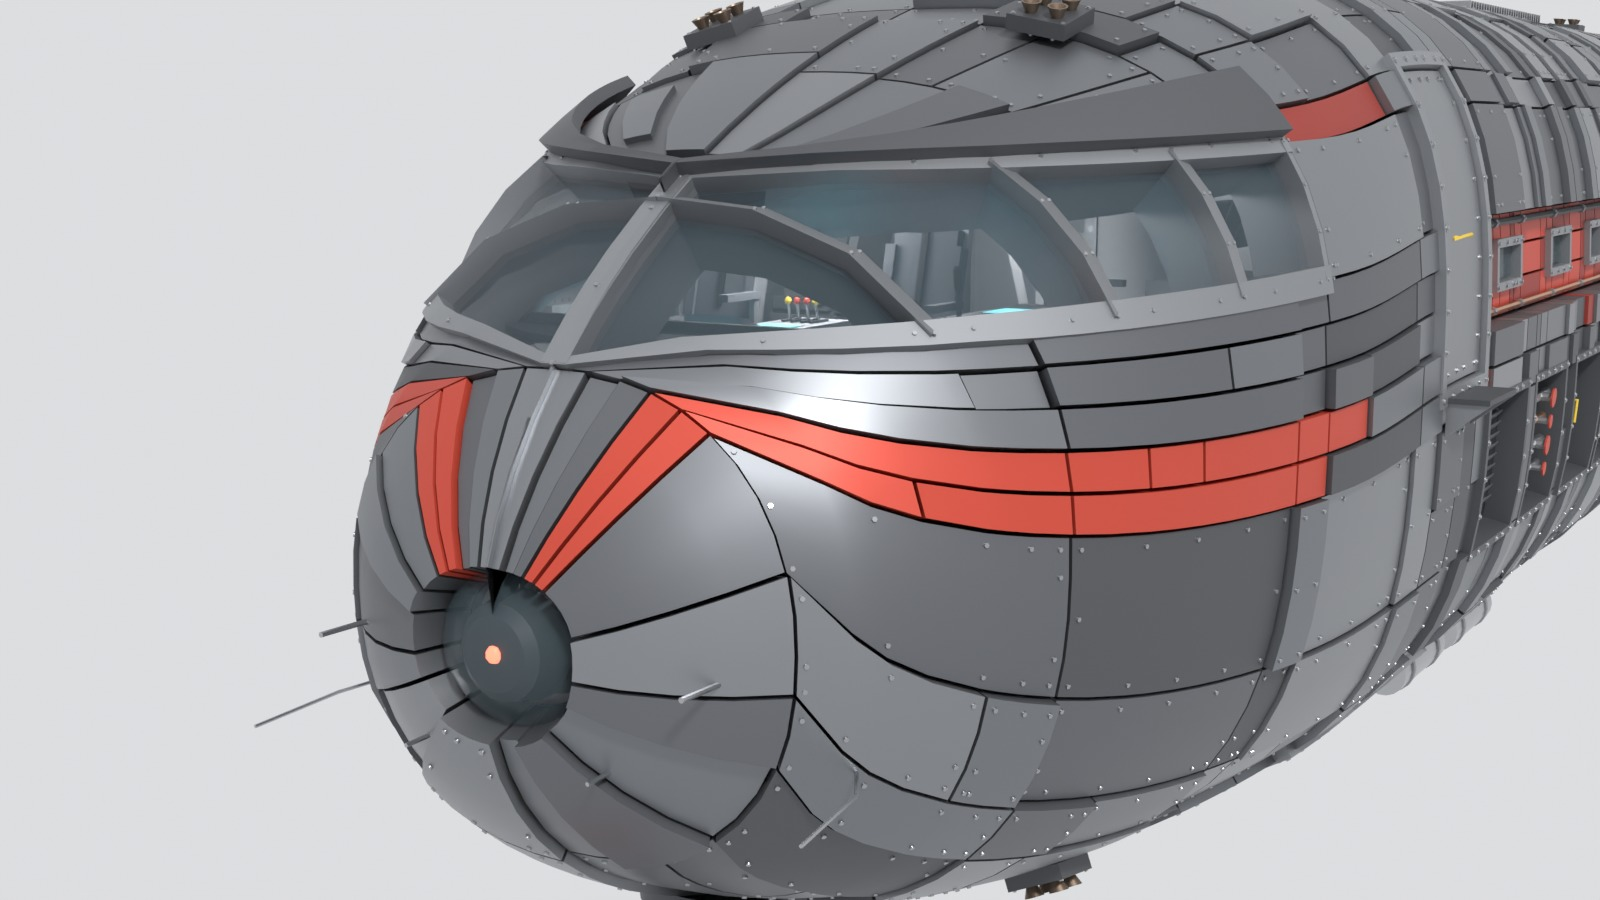
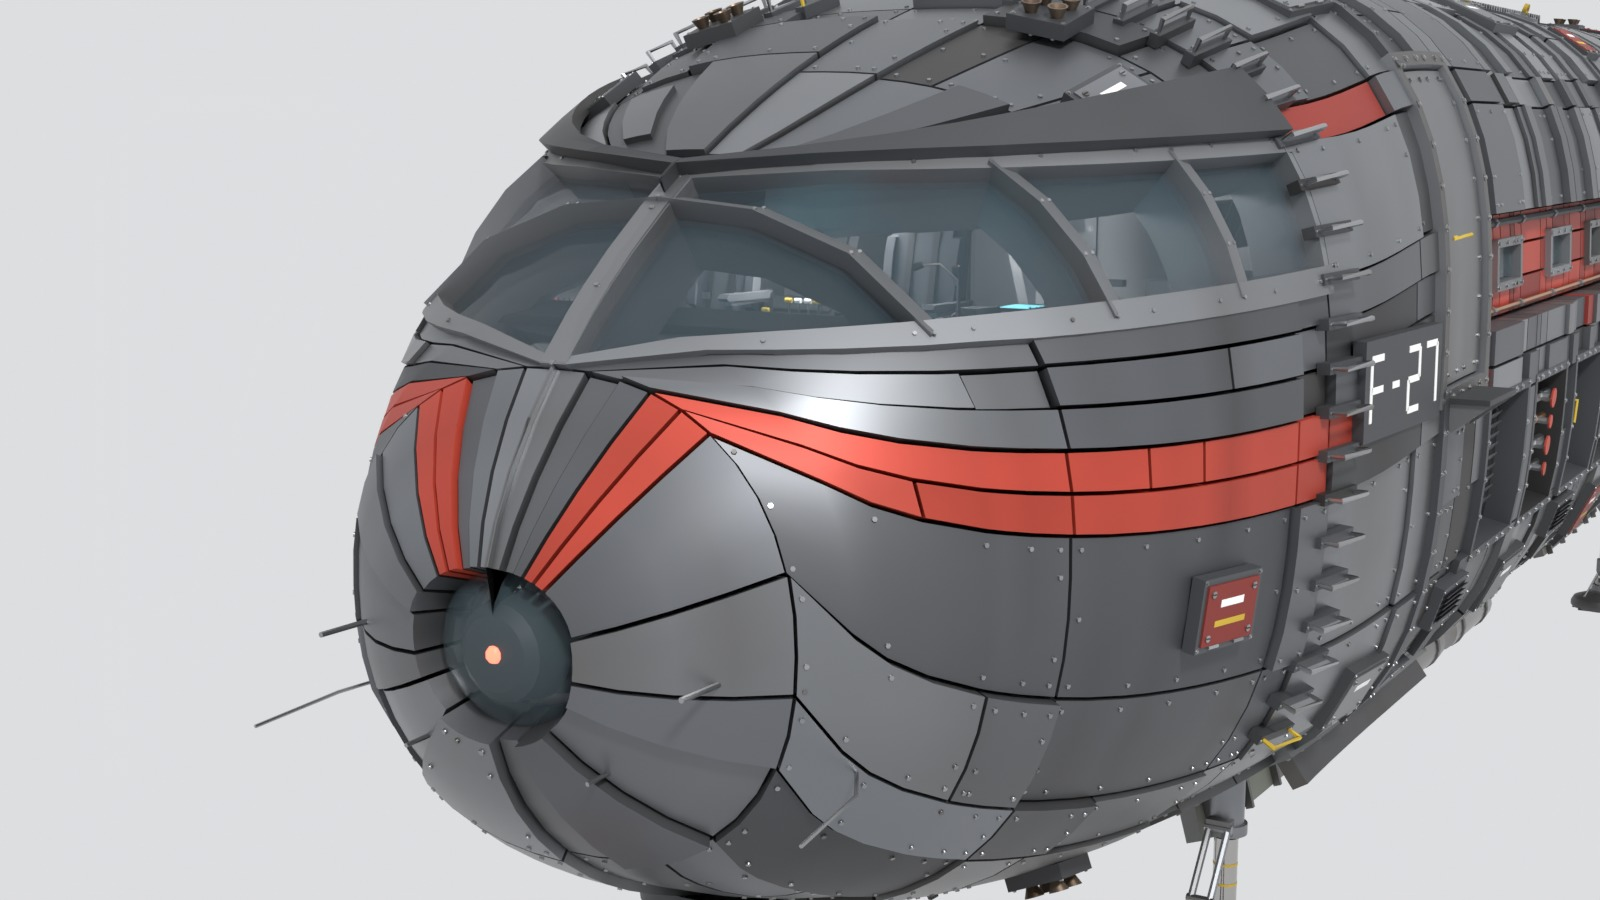
Wayfarer: renders, docs and counts for the hull detail and wear layer
Claude-Session: https://claude.ai/code/session_01UuyFwUzXmHQvLrtw5ioQUe

diff --git a/assets/wayfarer/USAGE.md b/assets/wayfarer/USAGE.md
@@ -12,15 +12,15 @@ to places inside, hide modules, slide a cutaway through the hull and run every m
 ## Status
 
 This is the **structure stage**: the whole ship exists at true size with real walls, decks, doors and mechanisms, in
-its detail pass. Every section has now had one: cockpit, engine section, landing gear, lift chassis, lander bay and the crew spaces. The outer hull and its gadgets are still first pass. It is not finished art.
+its detail pass. Every section has now had one: cockpit, engine section, landing gear, lift chassis, lander bay and the crew spaces. The outer hull has had one too, and a first wear layer is on. It is not finished art.
 
 | Part | State |
 |---|---|
-| Geometry (`model/`) | A recipe in Blender Python. 157 named objects in eight modules, 1,514 armour plates, 492,000 triangles of which 189,000 are fasteners. It writes `out/wayfarer.glb`, a build output that is never committed. |
+| Geometry (`model/`) | A recipe in Blender Python. 158 named objects in eight modules, 1,514 armour plates, 525,000 triangles of which 208,000 are fasteners. It writes `out/wayfarer.glb`, a build output that is never committed. |
 | Mechanisms | 11 keyed clips: landing gear, lift chassis with its ramp, lander bay doors and cradle, crew hatch, seven sliding doors. Kinematic only: the linkages are solved by geometry, not by forces. |
 | Sockets | 14 named points for the game: eyes, thresholds, muzzles, exhausts, ground. |
 | Checks (`model/tools/checks.py`) | 30 checks pass: the envelope, standing headroom on both decks, door and hatch sizes, the lift and lander fitting their openings, clip lengths. |
-| Materials | Flat colours by role (30 named materials). No textures, wear or decals yet. |
+| Materials | Flat colours by role (30 named materials), times a wear layer: one colour attribute per mesh (`wear`, glTF `COLOR_0`) computed by rule in `model/wear.py` from where each vertex is: tone variation, plate-to-plate tint, belly grime, streaks, soot towards the nozzles, scuffing above the decks. Build with `--no-wear` to leave it off. No textures: scratches, chipped paint and fine streaks are not there, because a plate only has vertices at its corners. Markings are geometry (the hull number, placards). |
 | Lander | A stub of the right size (5.6 x 2.2 x 1.7 m) hanging in the cradle. A real lander is a later asset. |
 | Simulation | **None yet.** No mass, thrust, flight, gear loads or sound. This is the main gap against the repository's simulation-grade rule and is the next layer after detail. |
 | Collision | Not made yet. The decks, bulkheads and lining are separate named objects, so a collision set can be cut from the recipe. |
@@ -33,7 +33,7 @@ Needs a Python that `bpy` (Blender as a module) installs on, and `numpy`. Built 
 pip install bpy numpy
 cd assets/wayfarer/model
 python3 build.py --glb             # work/wayfarer.blend, out/wayfarer.glb (16 MB, every bolt)
-python3 build.py --glb --lod 1 --tag wayfarer_lod1   # out/wayfarer_lod1.glb (9 MB, no fasteners)
+python3 build.py --glb --lod 1 --tag wayfarer_lod1   # out/wayfarer_lod1.glb (14 MB, no fasteners)
 python3 build.py --only engines    # one module, for working on it
 python3 tools/checks.py            # sizes, clearances and clips
 python3 blockout.py                # the stage-3 blockout
@@ -79,7 +79,7 @@ Each module is one file in `model/modules/` and one node under the root `wayfare
 | `landing_gear` | Four legs, each `gear_<pos>_leg` > `_piston` > `_pad`, with torque links, a landing light, an uplock roller, an actuator and two doors, in four wells fitted with an uplock jaw, accumulator, valve block and hydraulic lines. |
 | `lift_chassis` | `lift_cage` (belly plate, truss, deck, posts, rails, toe boards, control pedestal, work lights, beacons, tie-downs), `lift_ramp`, `lift_ramp_sill`, ramp-end gates `lift_gate_port` and `lift_gate_stbd`, hold-end gates `lift_gate_aft_port` and `lift_gate_aft_stbd`, four telescopic rams, and the fixed guide rails, ram valves and pipework in the hold. |
 | `lander_bay` | Two belly doors, `lander_cradle` (bracing, sway pads, clamp rams) on four jack screws with their drive motors and cross shaft, `lander_stub`, guard rails, and the catwalk fittings: control pedestal, hose reel, service panel, tool board, trestles, extinguishers. |
-| `gadgets` | Nose sensors, chin turret (`chin_turret_ring` > `chin_turret_yaw` > `chin_gun_cradle`), ventral gun pod, keel tanks, dorsal arrays, equipment bay fits, thrusters, nav lights. |
+| `gadgets` | Nose sensors, chin turret (`chin_turret_ring` > `chin_turret_yaw` > `chin_gun_cradle`), ventral gun pod, keel tanks, dorsal arrays, equipment bay fits, thrusters, nav lights, and `hull_details`: seam straps, access panels with latches, a rung ladder each side, lifting lugs, louvred vents, walkway rails and pads, formation and flood lights, belly drain masts, a ground power receptacle and the hull number. |
 | `interior` | Viewport glazing, crew hatch, sliding doors, ladder, bunks, lockers, galley, jump seats, racks, reactor, pump skids, switchboard, avionics racks, and one `<room>_details` object per room (`vestibule`, `crew_deck`, `mission_bay`, `engineering`, `lower_deck`) holding the fittings: bedding, galley, stowage, first aid, gauge board, breaker cabinet, workbench, battery boxes, cable trays, intercoms, extinguishers. |
 
 Objects ending in `_bolts` hold the fasteners, one per module, so they can be hidden or dropped at distance.

diff --git a/assets/wayfarer/notes/NOTES.md b/assets/wayfarer/notes/NOTES.md
@@ -19,7 +19,7 @@
   than through it. That set the lander's width at 2.2 m.
 - **Lower deck doors** part in the middle, because a single leaf could not slide past the gear wells.
 - **Landing gear.** Front pair folds aft, rear pair folds forward, each into a real well with two doors.
-- **Level of detail.** `--lod 1` leaves out fasteners (492,000 triangles down to 269,000).
+- **Level of detail.** `--lod 1` leaves out fasteners (525,000 triangles down to 283,000).
 
 ## Limits, plainly
 
@@ -31,10 +31,14 @@
   jack drive motors and cross shaft, control pedestal, hose reel, service panel, tool board) and the crew spaces
   (bunk bedding, curtains and ladders, galley, lockers, pack stowage, first aid, oxygen, ready lights, gauge board
   and valve manifold, breaker cabinet, workbench, expansion tank, battery boxes, cable trays, intercoms,
-  extinguishers). The outer hull plating and the external gadgets are still first pass.
+  extinguishers). The outer hull has its pass too (seam straps, access panels, rung ladders, lifting lugs, vents, walkway rails, belly fittings, hull number).
 - The crew-space fittings are placed by rule (against the lining, clear of doors and gear wells) and looked at in
   renders. Nothing checks that a crew member can reach or use them.
-- Flat colours. No textures, wear, decals or markings.
+- Wear is a per-vertex colour layer made by rule (`model/wear.py`), not textures. It gives tone, grime and plate
+  variation but no scratches, chips or fine streaks; next to the concept image the ship still reads clean. Getting
+  closer needs textures, which would be generated at build time and never committed.
+- The reactor compartment is a crawl space: 0.3 m between the door and the end of the vessel. It was looked at in a
+  render (`renders/reactor.jpg`) and left, since moving the vessel changes the engineering layout.
 - Clips are kinematic. Nothing is simulated: no mass, thrust, flight, gear loads, hydraulics or sound.
 - The lander is a stub.
 - No collision meshes.
@@ -50,7 +54,7 @@
 
 carpetshark was away, so these were taken as defaults and can all be reversed: keep both the retractable gear and the
 stowed lander; keep the interior as drafted; keep the engine reading below; make the ramp flush (done); detail the
-cockpit first (done), then the engine section, the landing gear, the lift chassis, the lander bay and the crew spaces (all done); keep the heavy brow as in the image, with the slit height now
+cockpit first (done), then the engine section, the landing gear, the lift chassis, the lander bay and the crew spaces, then the outer hull and a wear layer (all done); keep the heavy brow as in the image, with the slit height now
   one number (`CANOPY_SLIT` in `model/spec.py`) so the view can be opened later. The questions below still want a real
   answer.
 
@@ -65,13 +69,13 @@ cockpit first (done), then the engine section, the landing gear, the lift chassi
 4. **Ramp.** It now finishes flush with the lift deck, by way of a sill flap. Is that what you want?
 5. **Pilot's view.** From the seat the canopy slit is a low band (see `renders/pilot_eye.jpg`). Keep the heavy brow
    as in the image, or open the view up?
-6. **What next.** Every section has had its detail pass. The choices now are materials and wear, the outer hull
-   and gadgets, the real lander, collision, or the first simulation layer. Which first?
+6. **What next.** Every section has had its detail pass. The outer hull and a first wear layer are done too. Held for
+   you: the real lander and simulation. Also open: textures for real scratches and streaks, and collision. Which first?
 7. **The lander.** Its own asset later, or part of this one?
 
 ## Next
 
-1. Detail pass on the outer hull and gadgets; materials and wear.
+1. Textures for wear, if wanted (generated at build time).
 2. The real lander.
 3. Collision set and distance levels.
 4. Simulation layers: mass and balance, thrust and flight, gear loads, mechanism timing, sound.

diff --git a/README.md b/README.md
@@ -12,7 +12,7 @@ audio files; every asset ships `USAGE.md`, a sample page and `provenance.json`; 
 | Asset | What | Sample |
 |---|---|---|
 | [HK416 D14.5RS](assets/hk416/USAGE.md) | 5.56 mm rifle: action and recoil, ballistics (M855, Mk 262, M856), synthesised sound with ten surroundings and earmuffs. Parametric geometry recipe: 301 named parts, 13 clips, 7 sockets. | [`assets/hk416/sample/`](assets/hk416/sample/index.html) |
-| [F-27 Wayfarer](assets/wayfarer/USAGE.md) | Boardable 30 m gunship, structure stage: eight modules, 157 named parts, 1,514 armour plates, two walkable decks, landing gear, lift chassis and lander bay. Parametric geometry recipe with 11 clips and 14 sockets. No simulation layers yet. | [`assets/wayfarer/sample/`](assets/wayfarer/sample/index.html) |
+| [F-27 Wayfarer](assets/wayfarer/USAGE.md) | Boardable 30 m gunship, structure stage: eight modules, 158 named parts, 1,514 armour plates, two walkable decks, landing gear, lift chassis and lander bay. Parametric geometry recipe with 11 clips and 14 sockets. No simulation layers yet. | [`assets/wayfarer/sample/`](assets/wayfarer/sample/index.html) |
 
 ## Try it
 
